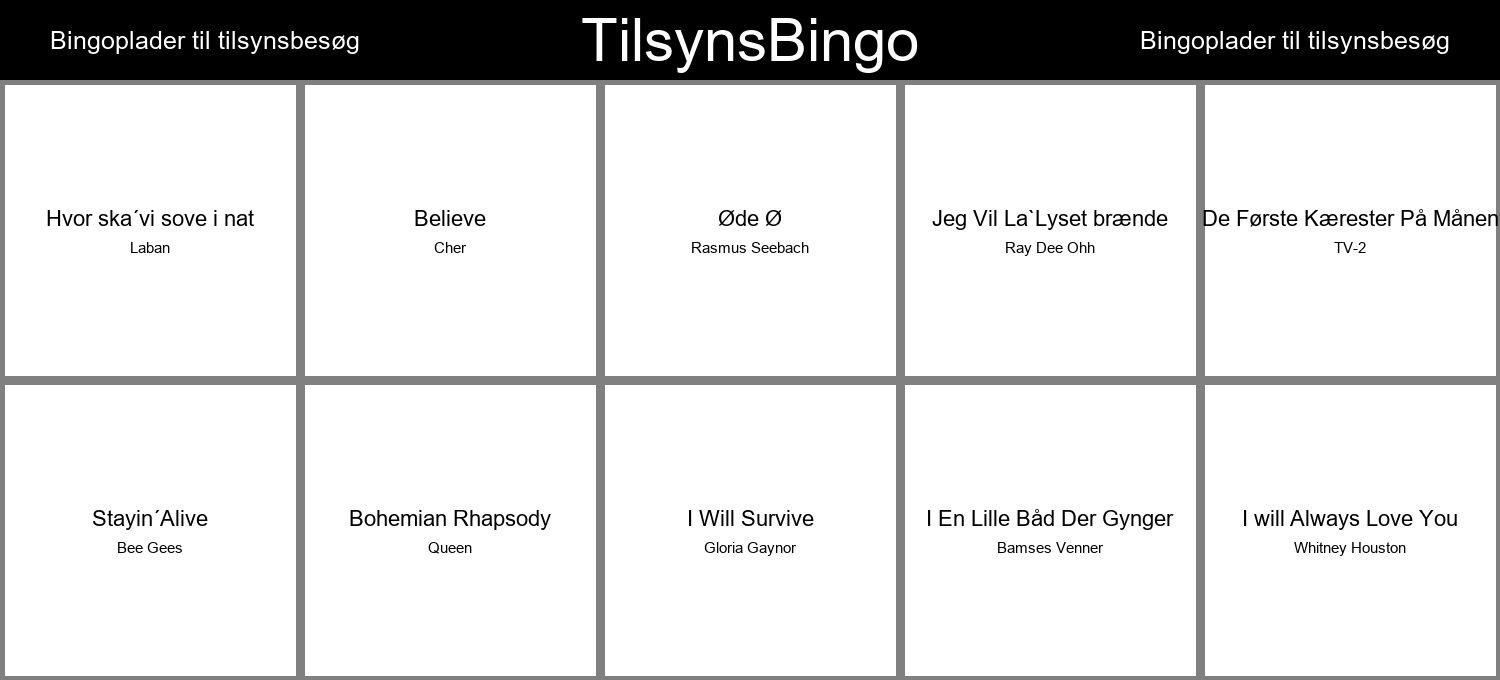
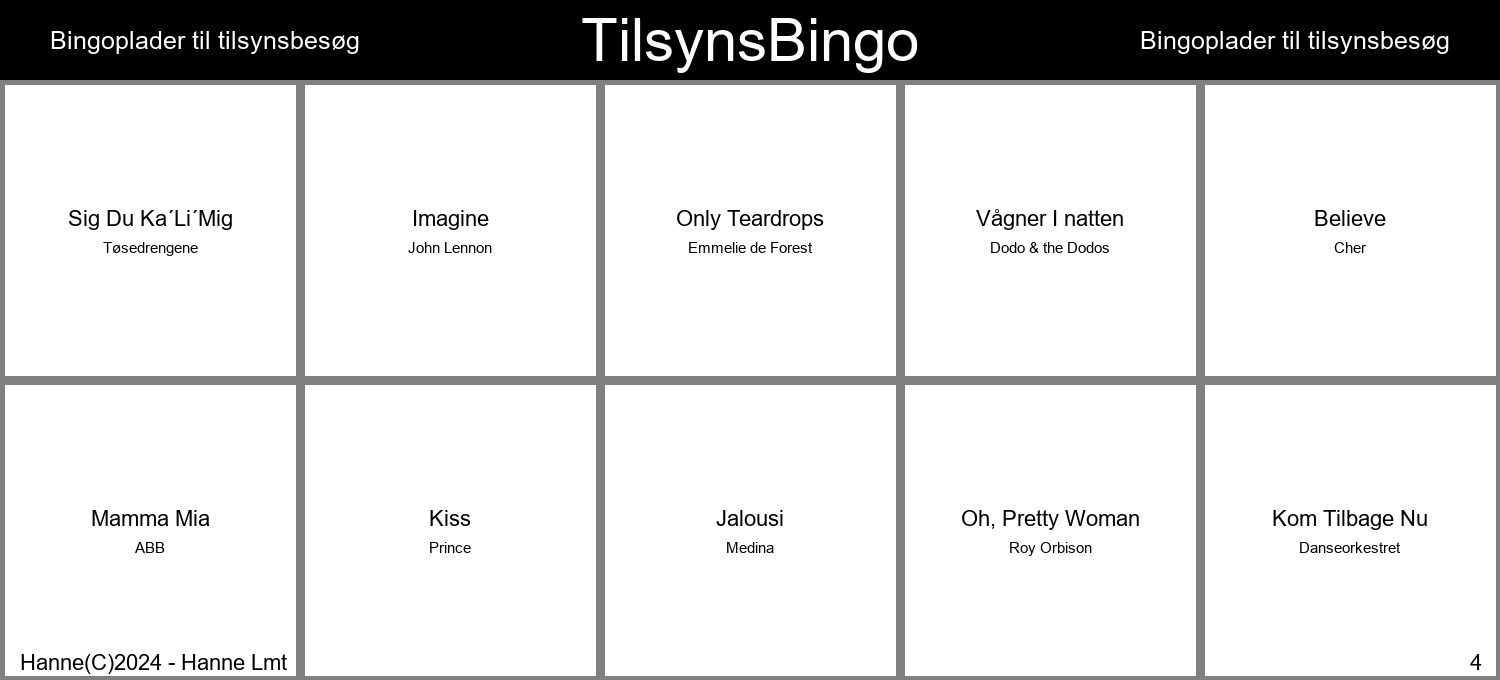
fixed merge conflict

diff --git a/bingo.py b/bingo.py
@@ -146,6 +146,12 @@ def create_bingo_grid(number:int, pieces: list[Piece]):
             draw.text(title_position, title_text, font=title_font, fill="black", align="center")
             draw.text(artist_position, artist_text, font=artist_font, fill="black", align="center")
 
+    number_position = (image_width - 30, image_height -30 + main_title_height)
+    draw.text(number_position, f"{number}", font=title_font, fill="black", align="bottom-right")
+
+    number_position = (20, image_height -30 + main_title_height)
+    draw.text(number_position, author, font=title_font, fill="black", align="bottom-left", )
+    
     #image.show()
     return image
 
